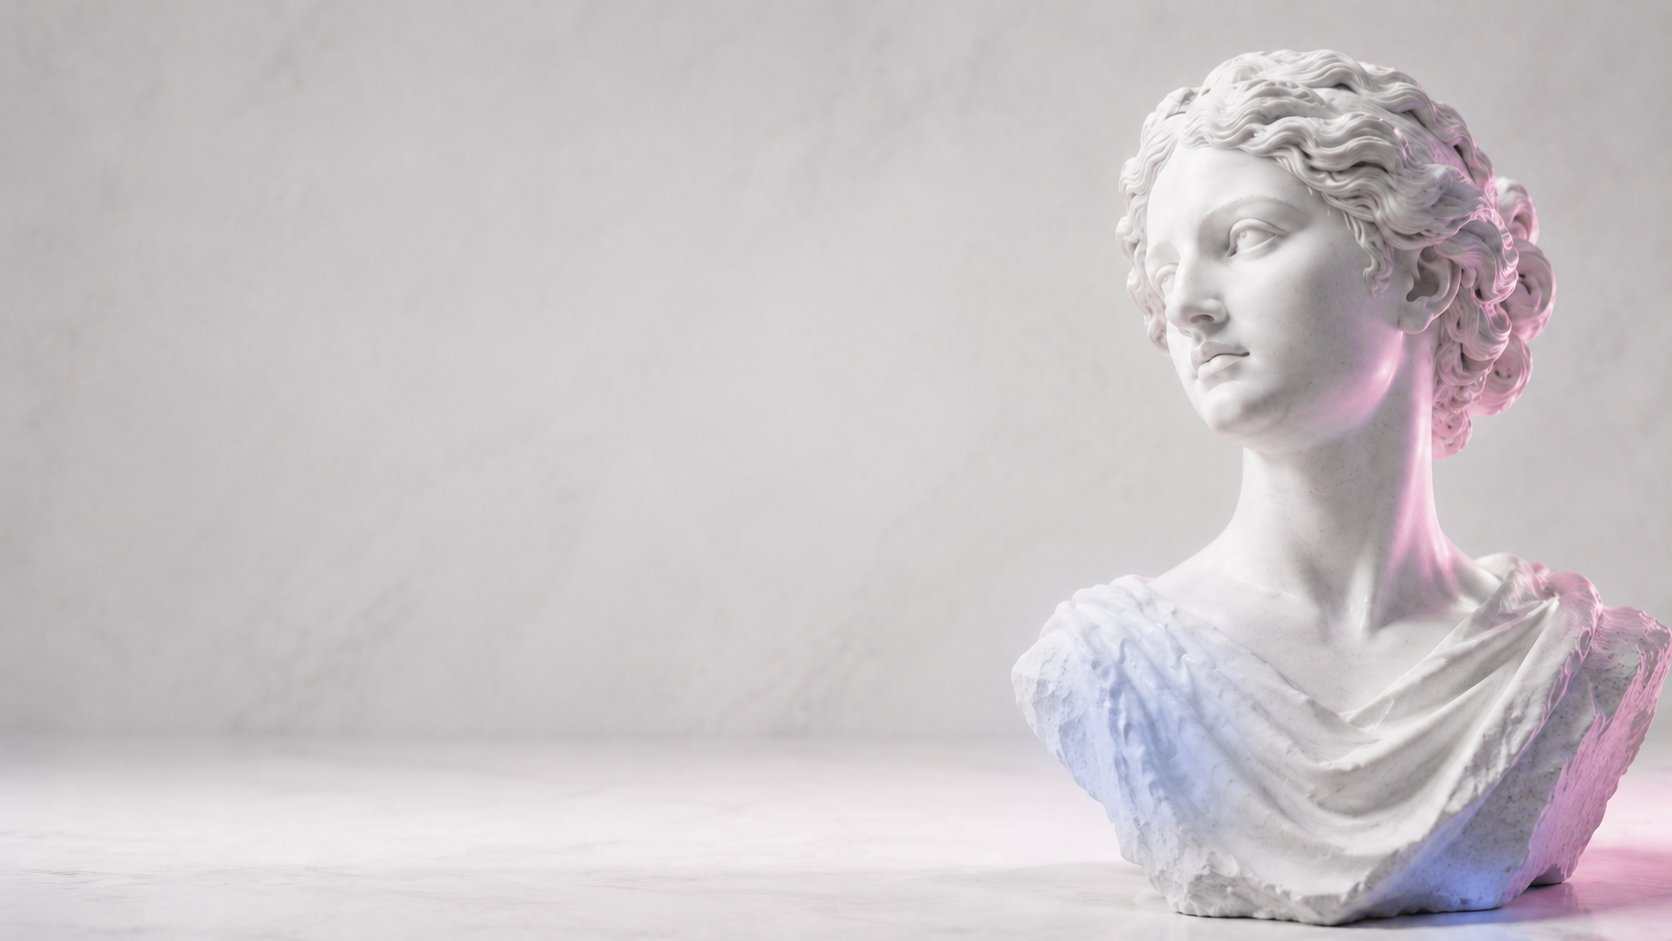
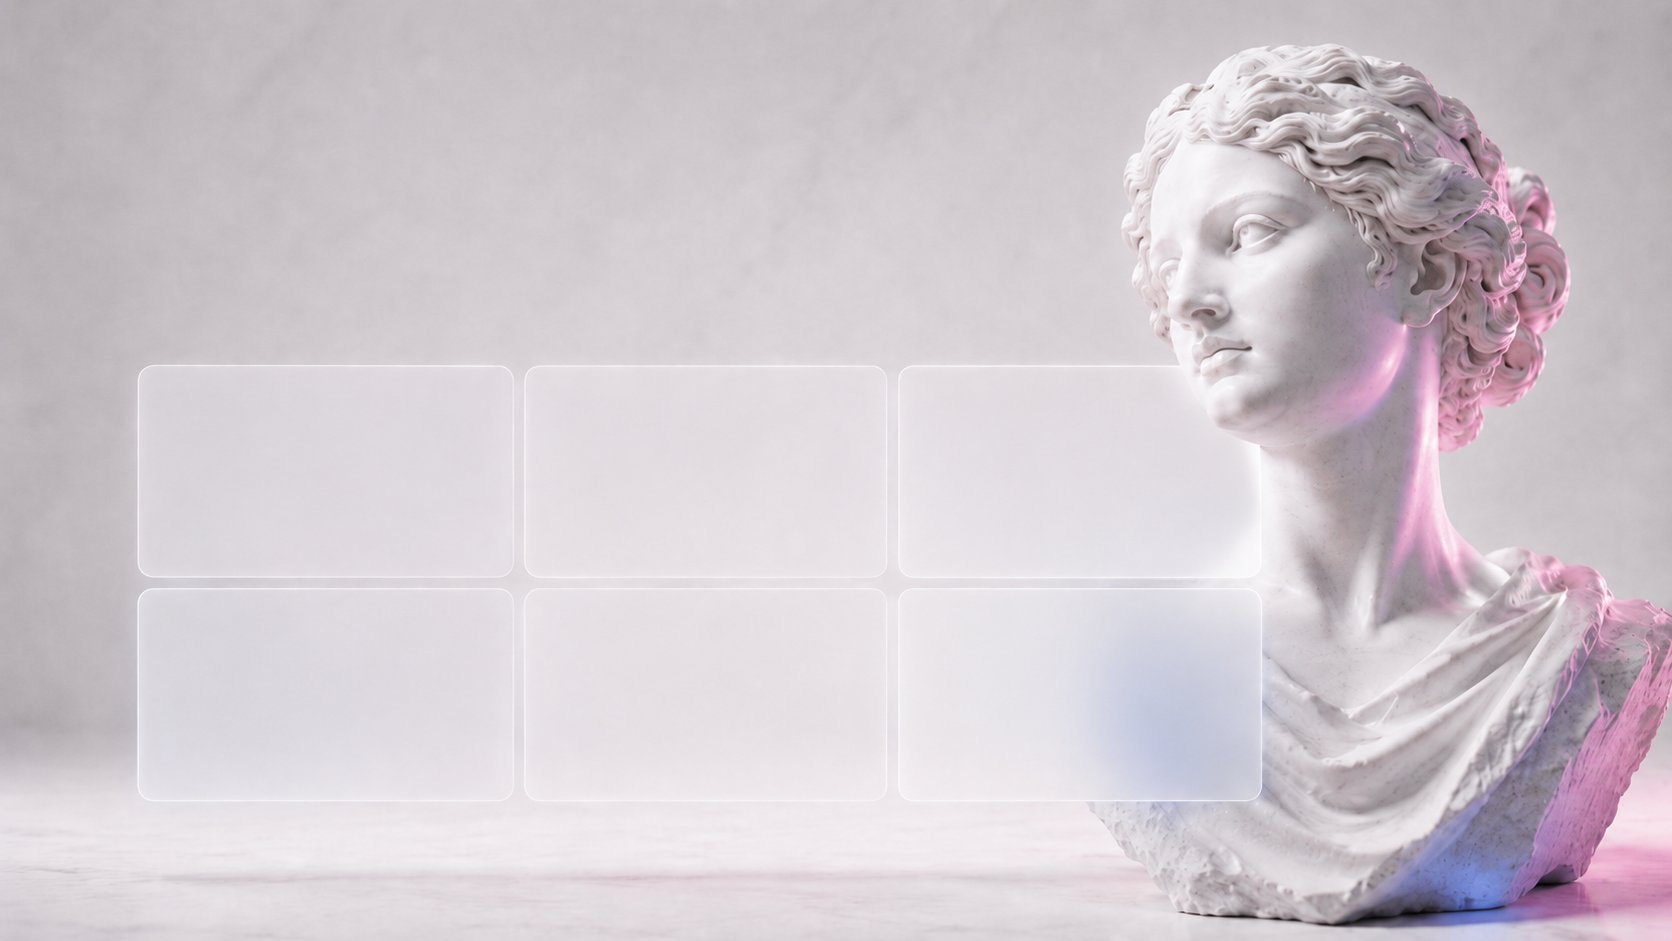
Site web

diff --git a/app/globals.css b/app/globals.css
@@ -1374,100 +1374,118 @@ body:has(.home-with-cinematic-footer) {
 .home-with-cinematic-footer .sec-night .marquee-sep { color: var(--c-bleu-clair, #2B6CC4) !important; }
 
 
+
+
 /* ============================================
-   ENGAGEMENTS — fond composé + tête en surimpression
+   ENGAGEMENTS — texte calé sur l'image (cartes intégrées)
    ============================================ */
 .eng-section { position: relative; padding: 0; overflow: hidden; }
 .eng-stage {
   position: relative;
   width: 100%;
-  max-width: 1672px;
-  margin: 0 auto;
   aspect-ratio: 1672 / 941;
   background-image: url('/eng-fond.png');
-  background-size: 100% 100%;
+  background-size: cover;
+  background-position: center;
   background-repeat: no-repeat;
+  container-type: size;
+  container-name: stage;
 }
-/* Tête détourée calée pile sur la tête du buste du fond */
-.eng-tete {
+.eng-head {
   position: absolute;
-  left: 60.4%;
-  top: 3.7%;
-  width: 28.1%;
-  height: auto;
-  z-index: 3;
-  pointer-events: none;
-  user-select: none;
+  left: 8.2%;
+  top: 11%;
+  max-width: 52%;
 }
-/* Contenu dans la moitié gauche */
-.eng-content {
-  position: absolute;
-  inset: 0;
-  z-index: 2;
-  max-width: 1240px;
-  margin: 0 auto;
-  padding: 8% 4% 0;
-  display: flex;
-  flex-direction: column;
-  justify-content: center;
+.eng-eyebrow {
+  display: inline-flex; align-items: center; gap: 12px;
+  font-family: var(--sans); font-size: 0.86cqw; letter-spacing: 0.2em;
+  color: var(--ink-muted); font-weight: 500; text-transform: uppercase;
+  margin-bottom: 1.2cqw;
 }
+.eng-eyebrow::before { content: ''; width: 2cqw; height: 1px; background: var(--ink-muted); display: inline-block; }
 .eng-title {
-  font-family: var(--serif);
-  font-weight: 400;
-  font-size: clamp(28px, 3.4vw, 52px);
-  line-height: 1.08;
-  letter-spacing: -0.02em;
-  color: var(--ink);
-  margin: 14px 0 4%;
-  max-width: 640px;
+  font-family: var(--serif); font-weight: 400;
+  font-size: 3.3cqw; line-height: 1.06;
+  letter-spacing: -0.02em; color: var(--ink);
 }
 .eng-title .italic { color: var(--klein); font-style: italic; }
 
 .eng-cards {
+  position: absolute;
+  left: 8.2%;
+  top: 38.5%;
+  width: 72%;
+  height: 47%;
   display: grid;
   grid-template-columns: repeat(3, 1fr);
-  gap: 1.1%;
-  max-width: 60%;
+  grid-template-rows: repeat(2, 1fr);
+  column-gap: 2.4%;
+  row-gap: 2.2%;
 }
 .eng-card {
-  background: rgba(255,255,255,0.5);
-  border: 1px solid rgba(255,255,255,0.7);
-  border-radius: 14px;
-  padding: 1.6vw 1.5vw;
-  backdrop-filter: blur(10px);
-  -webkit-backdrop-filter: blur(10px);
-  box-shadow: 0 8px 26px rgba(20,20,40,0.05);
-  transition: transform 0.3s var(--ease), box-shadow 0.3s var(--ease);
+  padding: 1.6cqw 1.9cqw 1.6cqw 1.7cqw;
+  display: flex;
+  flex-direction: column;
+  justify-content: center;
+  overflow: hidden;
 }
-.eng-card:hover {
-  transform: translateY(-3px);
-  box-shadow: 0 16px 40px rgba(27,79,138,0.10);
+.eng-card .icon-box {
+  width: 2.3cqw; height: 2.3cqw; min-width: 32px; min-height: 32px;
+  border-radius: 0.55cqw;
+  display: inline-flex; align-items: center; justify-content: center;
+  margin-bottom: 0.9cqw;
+  position: relative;
+  transition: transform 0.45s var(--ease), box-shadow 0.45s var(--ease);
 }
-.eng-card .icon-box { margin-bottom: 0.8vw; transform: scale(0.85); transform-origin: left; }
-.eng-card-title {
-  font-family: var(--serif);
-  font-size: clamp(13px, 1.05vw, 18px);
-  font-weight: 500;
-  margin-bottom: 0.4vw;
-  color: var(--ink);
+.eng-card .icon-box::after {
+  content: '';
+  position: absolute;
+  inset: 0;
+  border-radius: inherit;
+  box-shadow: 0 0 0 0 currentColor;
+  opacity: 0.5;
+  animation: iconPulse 3.4s var(--ease) infinite;
 }
-.eng-card-desc {
-  font-family: var(--sans);
-  font-size: clamp(11px, 0.78vw, 14px);
-  line-height: 1.5;
-  color: var(--ink-soft);
+@keyframes iconPulse {
+  0%   { box-shadow: 0 0 0 0 currentColor; opacity: 0.35; }
+  70%  { box-shadow: 0 0 0 0.7cqw transparent; opacity: 0; }
+  100% { box-shadow: 0 0 0 0 transparent; opacity: 0; }
 }
+.eng-card .icon-box-pink { background: var(--pink); color: #fff; }
+.eng-card .icon-box-pink::after { color: var(--pink); }
+.eng-card .icon-box-blue { background: var(--klein); color: #fff; }
+.eng-card .icon-box-blue::after { color: var(--klein); }
+.eng-card .ic { stroke: currentColor; fill: none; stroke-width: 2; stroke-linecap: round; stroke-linejoin: round; width: 1.1cqw; height: 1.1cqw; min-width: 16px; min-height: 16px; transition: transform 0.45s var(--ease); }
+.eng-card:hover .icon-box {
+  transform: translateY(-3px) scale(1.08) rotate(-4deg);
+  box-shadow: 0 0.7cqw 1.4cqw rgba(27,79,138,0.28);
+}
+.eng-card:hover .icon-box-pink { box-shadow: 0 0.7cqw 1.4cqw rgba(201,38,106,0.32); }
+.eng-card:hover .ic { transform: scale(1.12); }
+.eng-card-title { font-family: var(--serif); font-size: 1.18cqw; font-weight: 500; margin-bottom: 0.45cqw; color: var(--ink); }
+.eng-card-desc { font-family: var(--sans); font-size: 0.84cqw; line-height: 1.5; color: var(--ink-soft); }
 
-/* Tablette : on resserre, cartes 2 colonnes */
+/* Mobile / tablette : version classique empilée */
 @media (max-width: 1100px) {
-  .eng-stage { aspect-ratio: auto; min-height: 620px; background-size: cover; background-position: 75% center; }
-  .eng-tete { display: none; }
-  .eng-content { position: relative; padding: 72px 32px; }
-  .eng-cards { grid-template-columns: repeat(2, 1fr); max-width: 560px; gap: 12px; }
-  .eng-card { padding: 22px 22px; }
-  .eng-card .icon-box { transform: none; margin-bottom: 14px; }
+  .eng-stage { aspect-ratio: auto; min-height: 0; background-image: none; background: linear-gradient(180deg,#f3f0ec,#e9e5df); container-type: normal; padding: 56px 28px 64px; }
+  .eng-head { position: relative; left: 0; top: 0; max-width: 100%; }
+  .eng-eyebrow { font-size: 12px; margin-bottom: 16px; }
+  .eng-eyebrow::before { width: 24px; }
+  .eng-title { font-size: 32px; margin-bottom: 32px; }
+  .eng-cards {
+    position: relative; left: 0; top: 0; width: 100%; height: auto;
+    grid-template-columns: repeat(2, 1fr); grid-template-rows: auto;
+    gap: 14px;
+  }
+  .eng-card { background: #fff; border-radius: 16px; box-shadow: 0 8px 26px rgba(20,20,40,0.06); padding: 24px; }
+  .eng-card .icon-box { width: 38px; height: 38px; border-radius: 9px; margin-bottom: 14px; }
+  .eng-card .icon-box::after { animation: none; }
+  .eng-card .ic { width: 18px; height: 18px; }
+  .eng-card:hover .icon-box { box-shadow: 0 8px 18px rgba(27,79,138,0.25); }
+  .eng-card-title { font-size: 17px; margin-bottom: 6px; }
+  .eng-card-desc { font-size: 14px; }
 }
 @media (max-width: 600px) {
-  .eng-stage { background-position: 70% center; }
-  .eng-cards { grid-template-columns: 1fr; max-width: 100%; }
+  .eng-cards { grid-template-columns: 1fr; }
 }

diff --git a/components/EngagementsGrid.tsx b/components/EngagementsGrid.tsx
@@ -1,7 +1,7 @@
 const ENGAGEMENTS = [
   {
     icon: (
-      <svg className="ic" width="18" height="18" viewBox="0 0 24 24">
+      <svg className="ic" viewBox="0 0 24 24">
         <rect x="2" y="3" width="20" height="8" rx="1" />
         <rect x="2" y="13" width="20" height="8" rx="1" />
         <line x1="6" y1="7" x2="6.01" y2="7" />
@@ -14,17 +14,17 @@ const ENGAGEMENTS = [
   },
   {
     icon: (
-      <svg className="ic" width="18" height="18" viewBox="0 0 24 24">
+      <svg className="ic" viewBox="0 0 24 24">
         <path d="M21 2l-2 2m-7.61 7.61a5.5 5.5 0 1 1-7.778 7.778 5.5 5.5 0 0 1 7.777-7.777zm0 0L15.5 7.5m0 0l3 3L22 7l-3-3m-3.5 3.5L19 4" />
       </svg>
     ),
-    iconClass: 'icon-box-blue-light',
+    iconClass: 'icon-box-blue',
     title: 'Le code vous appartient',
     desc: 'Pas de location, pas de dépendance. Vous repartez avec votre site, vos accès, votre liberté.',
   },
   {
     icon: (
-      <svg className="ic" width="18" height="18" viewBox="0 0 24 24">
+      <svg className="ic" viewBox="0 0 24 24">
         <path d="M21 10c0 7-9 13-9 13s-9-6-9-13a9 9 0 0 1 18 0z" />
         <circle cx="12" cy="10" r="3" />
       </svg>
@@ -35,19 +35,19 @@ const ENGAGEMENTS = [
   },
   {
     icon: (
-      <svg className="ic" width="18" height="18" viewBox="0 0 24 24">
+      <svg className="ic" viewBox="0 0 24 24">
         <path d="M14 2H6a2 2 0 0 0-2 2v16a2 2 0 0 0 2 2h12a2 2 0 0 0 2-2V8z" />
         <polyline points="14 2 14 8 20 8" />
         <line x1="9" y1="15" x2="15" y2="15" />
       </svg>
     ),
-    iconClass: 'icon-box-blue-light',
+    iconClass: 'icon-box-blue',
     title: 'Devis ferme, zéro surprise',
     desc: "Le prix qu'on annonce est le prix que vous payez. Pas de ligne cachée, pas de surcoût en cours de route.",
   },
   {
     icon: (
-      <svg className="ic" width="18" height="18" viewBox="0 0 24 24">
+      <svg className="ic" viewBox="0 0 24 24">
         <circle cx="12" cy="12" r="10" />
         <circle cx="12" cy="12" r="4" />
       </svg>
@@ -58,11 +58,11 @@ const ENGAGEMENTS = [
   },
   {
     icon: (
-      <svg className="ic" width="18" height="18" viewBox="0 0 24 24">
+      <svg className="ic" viewBox="0 0 24 24">
         <path d="M21 11.5a8.38 8.38 0 0 1-.9 3.8 8.5 8.5 0 0 1-7.6 4.7 8.38 8.38 0 0 1-3.8-.9L3 21l1.9-5.7a8.38 8.38 0 0 1-.9-3.8 8.5 8.5 0 0 1 4.7-7.6 8.38 8.38 0 0 1 3.8-.9h.5a8.48 8.48 0 0 1 8 8v.5z" />
       </svg>
     ),
-    iconClass: 'icon-box-blue-light',
+    iconClass: 'icon-box-blue',
     title: 'Fondateurs accessibles',
     desc: 'Pas de commercial intermédiaire. Vous parlez directement à ceux qui décident et qui livrent.',
   },
@@ -76,15 +76,9 @@ interface EngagementsGridProps {
 export default function EngagementsGrid({ eyebrow = '03 — Pourquoi Elevora', title }: EngagementsGridProps) {
   return (
     <section id="engagements" className="eng-section">
-      {/* Calque 0 — fond composé (marbre + buste) */}
       <div className="eng-stage">
-        {/* Calque 2 — tête seule détourée, calée sur la tête du buste, devant le contenu */}
-        {/* eslint-disable-next-line @next/next/no-img-element */}
-        <img src="/eng-tete.png" alt="" className="eng-tete" aria-hidden="true" />
-
-        {/* Calque 1 — contenu */}
-        <div className="eng-content">
-          <span className="eyebrow">{eyebrow}</span>
+        <div className="eng-head">
+          <span className="eng-eyebrow">{eyebrow}</span>
           <h2 className="eng-title">
             {title || (
               <>
@@ -93,16 +87,16 @@ export default function EngagementsGrid({ eyebrow = '03 — Pourquoi Elevora', t
               </>
             )}
           </h2>
+        </div>
 
-          <div className="eng-cards">
-            {ENGAGEMENTS.map((e, i) => (
-              <div key={i} className="eng-card">
-                <div className={`icon-box ${e.iconClass}`}>{e.icon}</div>
-                <h4 className="eng-card-title">{e.title}</h4>
-                <p className="eng-card-desc">{e.desc}</p>
-              </div>
-            ))}
-          </div>
+        <div className="eng-cards">
+          {ENGAGEMENTS.map((e, i) => (
+            <div key={i} className="eng-card">
+              <div className={`icon-box ${e.iconClass}`}>{e.icon}</div>
+              <h4 className="eng-card-title">{e.title}</h4>
+              <p className="eng-card-desc">{e.desc}</p>
+            </div>
+          ))}
         </div>
       </div>
     </section>
